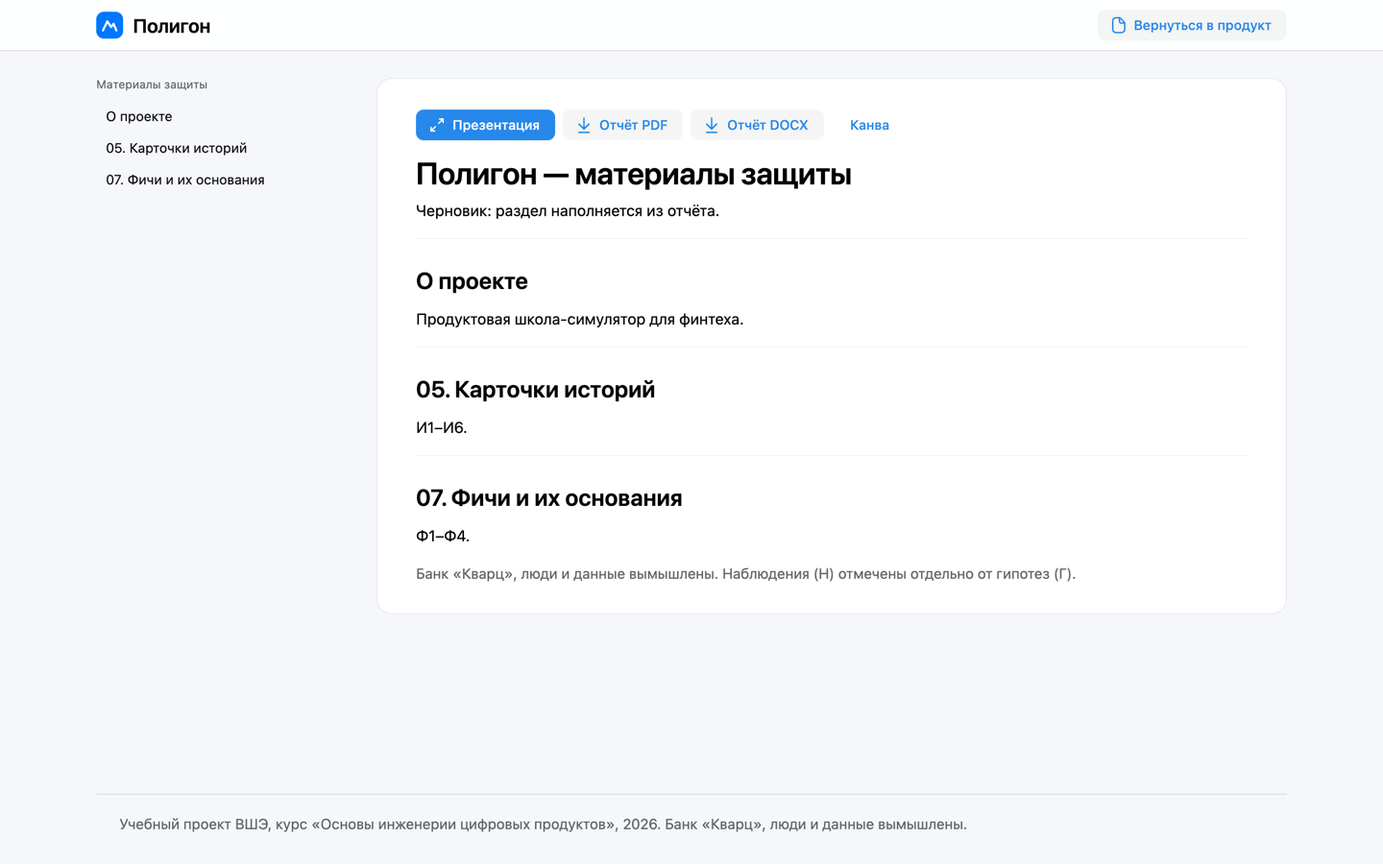
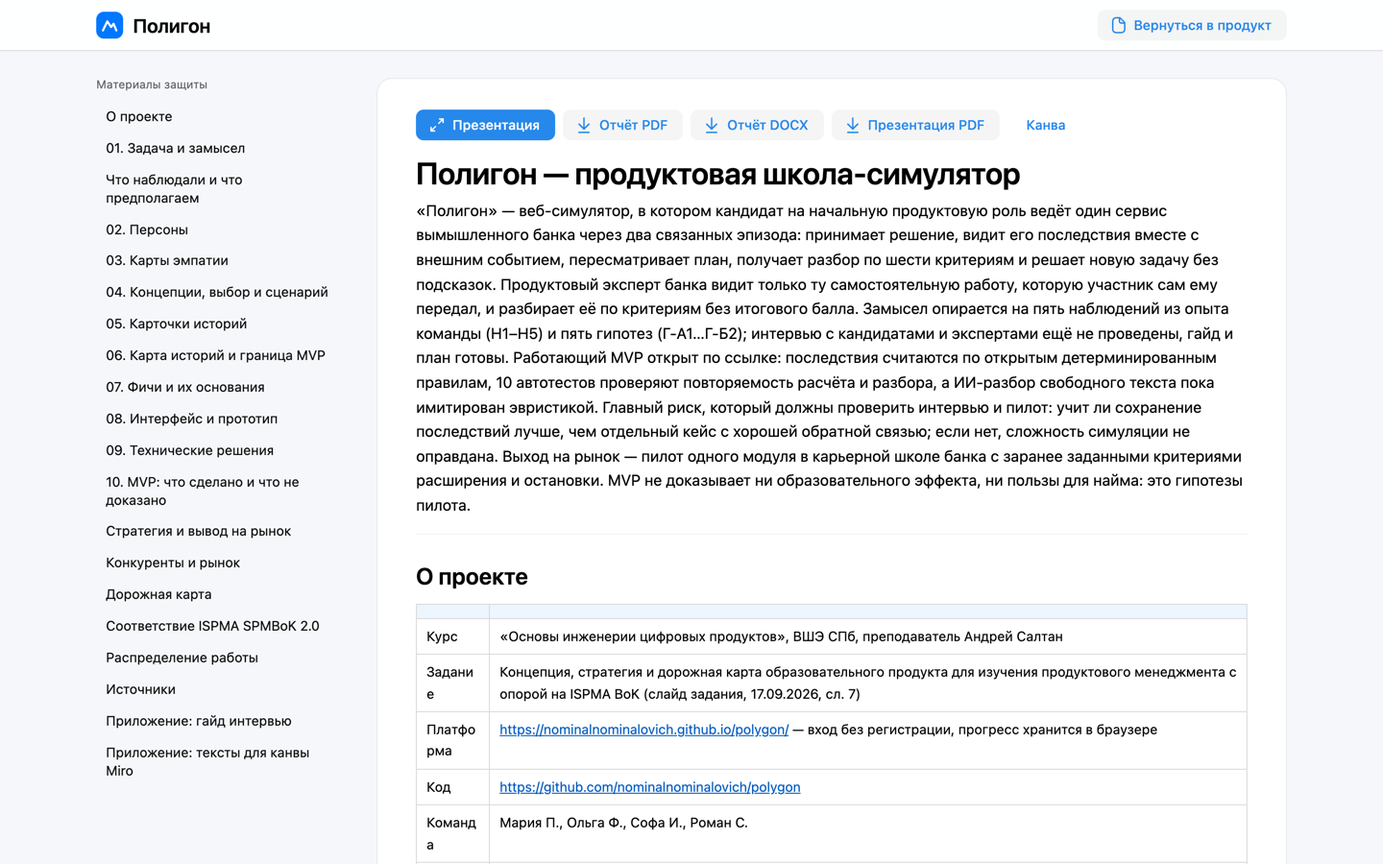
Самостоятельная задача v2: «месяц спустя» с внешним событием и разбивкой по причинам — карточка эксперта теперь несёт К4 и К5; сводка по потоку в кабинете эксперта; 15 тестов

diff --git a/src/screens/steps/Transfer.tsx b/src/screens/steps/Transfer.tsx
@@ -1,13 +1,16 @@
 import { Button, Caption, FormItem, Input, Text, Textarea, Title } from '@vkontakte/vkui';
+import { Icon20NewsfeedOutline, Icon20StatisticsOutline } from '@vkontakte/icons';
 import { Icon20ChevronRight } from '@vkontakte/icons';
-import { E4, E4_CAPACITY, type E4Id } from '../../sim/scenario';
+import { E4, E4_BASE, E4_CAPACITY, E4_EVENT, E4_EXPLANATIONS, type E4Id } from '../../sim/scenario';
+import { simulateE4 } from '../../sim/engine';
 import { CRITERIA } from '../../sim/debrief';
 import { goStep, setState, useStore, type Transfer as T } from '../../store';
 import { Trace } from '../../components/Trace';
-import { Bars, Capacity, Panel, Pill } from '../../components/ui';
+import { Bars, Capacity, Delta, Msg, Panel, Pill, fmt } from '../../components/ui';
+import { Radio } from './Decision2';
 import { Choice } from '../../components/fields';
 
-export const E4_CRITERIA = CRITERIA.filter((c) => ['K1', 'K2', 'K3', 'K6'].includes(c.id));
+export const E4_CRITERIA = CRITERIA;
 
 export function Transfer() {
   const s = useStore();
@@ -17,13 +20,14 @@ export function Transfer() {
   const toggle = (id: E4Id) => set({ initiatives: t.initiatives.includes(id) ? t.initiatives.filter((x) => x !== id) : [...t.initiatives, id] });
   const valid = t.problem.trim() && t.segment.trim() && t.initiatives.length > 0 && t.expectation.trim() && t.rationale.trim() && used <= E4_CAPACITY;
 
-  if (s.transferDone)
+  if (s.transferDone && s.transfer2Done)
     return (
       <div className="pg-stack pg-narrow">
         <Panel tone="tint" title="Самостоятельная работа отправлена"><Text>Изменить её уже нельзя — так работа остаётся сопоставимой.</Text></Panel>
         <Button size="l" after={<Icon20ChevronRight />} onClick={() => goStep('card')}>К карточке результата</Button>
       </div>
     );
+  if (s.transferDone) return <TransferMonth />;
 
   return (
     <div className="pg-grid pg-grid--side">
@@ -59,15 +63,68 @@ export function Transfer() {
       </div>
       <aside className="pg-stack pg-sticky">
         <Panel title="Критерии — видны до начала" tone="pale">
+          <Caption level="1" className="pg-muted">К4 и К5 оцениваются по шагу «месяц спустя».</Caption>
           <ul className="pg-list">{E4_CRITERIA.map((c) => <li key={c.id}><Text weight="2">{c.id.replace('K', 'К')} · {c.title}</Text><Caption level="1" className="pg-muted">{c.what}</Caption></li>)}</ul>
         </Panel>
         <Trace ids={['И5']} note="Критерий 2: работа отделена от тренировки; передача эксперту — отдельное действие на следующем шаге.">
           <Panel tone={valid ? 'tint' : 'pale'}>
-            <Text className="pg-muted">Тренировочный маршрут эксперт не увидит. Эту работу — только если вы её передадите.</Text>
-            <Button size="l" stretched disabled={!valid} after={<Icon20ChevronRight />} onClick={() => { setState({ transferDone: true }); goStep('card'); }}>Отправить работу</Button>
+            <Text className="pg-muted">Дальше — «месяц спустя»: увидите результат и коротко пересмотрите решение. Тренировочный маршрут эксперт не увидит, эту работу — только если вы её передадите.</Text>
+            <Button size="l" stretched disabled={!valid} after={<Icon20ChevronRight />} onClick={() => { setState({ transferDone: true }); window.scrollTo({ top: 0 }); }}>Зафиксировать решение</Button>
           </Panel>
         </Trace>
       </aside>
+    </div>
+  );
+}
+
+function TransferMonth() {
+  const s = useStore();
+  const t = s.transfer;
+  const set = (p: Partial<T>) => setState((st) => ({ transfer: { ...st.transfer, ...p } }));
+  const r = simulateE4(t.initiatives);
+  const valid = !!t.explanation && (t.changeText ?? '').trim().length > 0;
+  return (
+    <div className="pg-stack">
+      <Trace ids={['И5', 'Ф4', 'Э4']} note="Задача на перенос проверяет и ключевой навык модуля: отделить эффект своего решения от внешнего события (К4) и пересмотреть решение (К5).">
+        <Panel tone="risk">
+          <div className="pg-row"><Pill tone="solid">Самостоятельная работа · месяц спустя</Pill><Caption level="1">без подсказок</Caption></div>
+          <Title level="2">Ваше решение вышло. Посмотрите, что случилось</Title>
+        </Panel>
+      </Trace>
+      <div className="pg-grid pg-grid--2">
+        <Panel title="Новость" icon={<Icon20NewsfeedOutline />} tone="risk">
+          <Text weight="2">{E4_EVENT.title}</Text>
+          <Text>{E4_EVENT.text}</Text>
+        </Panel>
+        <Panel title="Дашборд" icon={<Icon20StatisticsOutline />}>
+          <div className="pg-tile">
+            <Caption level="1" className="pg-muted">Доля отключений в первый месяц</Caption>
+            <div className="pg-tile__value">{fmt(r.total)}<span className="pg-tile__unit">%</span></div>
+            <Delta value={r.total - E4_BASE} invert />
+            <Caption level="2" className="pg-muted">было {E4_BASE}%</Caption>
+          </div>
+          <Msg name="Ирина" role="Руководитель направления" tone={r.total >= E4_BASE ? 'warn' : undefined} text={r.total >= E4_BASE ? 'Отключений не меньше, чем было. Ваше решение не сработало?' : 'Снизилось, но меньше, чем ждали. Почему?'} />
+        </Panel>
+      </div>
+      <Panel title="Разбивка по причинам отключения" aside={!t.split && <Button mode="secondary" size="m" onClick={() => set({ split: true })}>Запросить разбивку</Button>}>
+        {t.split ? (
+          <div className="pg-table-wrap"><table className="pg-table">
+            <thead><tr><th>Причина</th><th>До, п.п.</th><th>После, п.п.</th></tr></thead>
+            <tbody>
+              {r.rows.map((x) => <tr key={x.id}><td>{x.label}</td><td>{fmt(x.base)}</td><td><b>{fmt(x.after)}</b> <Delta value={x.after - x.base} invert /></td></tr>)}
+              <tr className="is-total"><td>Всего</td><td>{E4_BASE}</td><td><b>{fmt(r.total)}</b></td></tr>
+            </tbody>
+          </table></div>
+        ) : <Text className="pg-muted">Общий показатель складывает разные причины. Разбивка открывается одним действием.</Text>}
+      </Panel>
+      <Panel title="Как вы объясняете результат?">
+        <Radio options={E4_EXPLANATIONS} value={t.explanation ?? ''} onChange={(id) => set({ explanation: id })} />
+        {t.explanation === 'own' && <Textarea value={t.explanationText ?? ''} onChange={(e) => set({ explanationText: e.target.value })} rows={2} />}
+        <FormItem top="Что меняете в решении и почему (2–3 предложения)" noPadding>
+          <Textarea value={t.changeText ?? ''} onChange={(e) => set({ changeText: e.target.value })} rows={3} />
+        </FormItem>
+        <Button size="l" disabled={!valid} after={<Icon20ChevronRight />} onClick={() => { setState({ transfer2Done: true }); goStep('card'); }}>Отправить работу</Button>
+      </Panel>
     </div>
   );
 }

diff --git a/src/screens/Expert.tsx b/src/screens/Expert.tsx
@@ -21,6 +21,9 @@ const DEMO: { id: string; name: string; t: Transfer }[] = [
       expectation: 'Доля отключений в первый месяц: 38% → 25% за 2 месяца',
       rationale: '61% отключений — в два дня после списания; 61% ответов опроса — про сумму или момент списания. Опрос показывается в момент отключения, отклик 55% — ему можно доверять больше, чем обычному. Кешбэк не решает проблему неожиданной суммы.',
       check: 'Доля отключений в первые два дня; обращения «почему списали столько».',
+      explanation: 'external',
+      split: true,
+      changeText: 'Разбивка показала: отключений из-за неожиданной суммы стало почти впятеро меньше (12,9 → 2,7 п.п.), а рост дала смена оператора (+9 п.п.). Решение оставляю и добавляю подсказку перенести автоплатёж при смене номера.',
     },
   },
   {
@@ -33,6 +36,9 @@ const DEMO: { id: string; name: string; t: Transfer }[] = [
       expectation: 'Больше подключений автоплатежа',
       rationale: 'Руководитель предлагает кешбэк, клиенты любят кешбэк. Напоминание увеличит подключения.',
       check: '',
+      explanation: 'failed',
+      split: false,
+      changeText: 'Отключений стало больше, кешбэк не сработал — увеличим кешбэк до 5%.',
     },
   },
 ];
@@ -41,7 +47,7 @@ const FRAGMENTS = ['Проблема', 'Сегмент', 'Инициативы',
 
 export function Expert({ workId }: { workId?: string }) {
   const s = useStore();
-  const works = [...(s.shared && s.transferDone ? [{ id: OWN_WORK_ID, name: 'Ваша работа (демо-прохождение)', t: s.transfer }] : []), ...DEMO];
+  const works = [...(s.shared && s.transfer2Done ? [{ id: OWN_WORK_ID, name: 'Ваша работа (демо-прохождение)', t: s.transfer }] : []), ...DEMO];
   const work = works.find((w) => w.id === workId);
 
   if (!work)
@@ -50,6 +56,24 @@ export function Expert({ workId }: { workId?: string }) {
         <Caption level="1" className="pg-muted">Продуктовый эксперт · банк «Кварц»</Caption>
         <Title level="1" className="pg-page__title">Переданные работы</Title>
         <Text className="pg-muted pg-page__lead">Только самостоятельные работы, которые участники сами передали. Тренировочные попытки сюда не попадают.</Text>
+        <Trace ids={['И6', 'Ф4']} status="mock" note="Сводка для руководителя школы: что показать после пилота. В MVP считается по разборам в этом браузере.">
+          <Panel title="Сводка по потоку" tone="pale">
+            {(() => {
+              const done = works.filter((w) => s.reviews[w.id]?.savedAt);
+              const mins = done.map((w) => s.reviews[w.id]!.minutes ?? 0).filter(Boolean).sort((a, b) => a - b);
+              const med = mins.length ? mins[Math.floor((mins.length - 1) / 2)] : null;
+              const q = done.filter((w) => s.reviews[w.id]!.question.trim()).length;
+              return (
+                <div className="pg-tiles">
+                  <div className="pg-tile"><Caption level="1" className="pg-muted">Передано работ</Caption><div className="pg-tile__value">{works.length}</div></div>
+                  <div className="pg-tile"><Caption level="1" className="pg-muted">Разобрано</Caption><div className="pg-tile__value">{done.length}</div></div>
+                  <div className="pg-tile"><Caption level="1" className="pg-muted">Минут на разбор, медиана</Caption><div className="pg-tile__value">{med ?? '—'}</div></div>
+                  <div className="pg-tile"><Caption level="1" className="pg-muted">С вопросом для интервью</Caption><div className="pg-tile__value">{q}</div></div>
+                </div>
+              );
+            })()}
+          </Panel>
+        </Trace>
         <Trace ids={['И6', 'Ф4', 'Э5']}>
           <Panel>
             {works.map((w) => (
@@ -57,7 +81,7 @@ export function Expert({ workId }: { workId?: string }) {
                 {w.name}
               </SimpleCell>
             ))}
-            {!(s.shared && s.transferDone) && <Caption level="1" className="pg-muted pg-pad">Пройдите модуль за кандидата и передайте работу — она появится в этом списке.</Caption>}
+            {!(s.shared && s.transfer2Done) && <Caption level="1" className="pg-muted pg-pad">Пройдите модуль за кандидата и передайте работу — она появится в этом списке.</Caption>}
           </Panel>
         </Trace>
       </div>
@@ -70,6 +94,7 @@ function ReviewForm({ id, name, t, initial }: { id: string; name: string; t: Tra
   const [review, setReview] = useState<Review>(initial ?? { criteria: {}, question: '' });
   const [frag, setFrag] = useState<Record<string, string>>({});
   const [saved, setSaved] = useState(false);
+  const [openedAt] = useState(() => Date.now());
   const setC = (c: CriterionId, p: Partial<{ status: Status; comment: string }>) =>
     setReview((r) => ({ ...r, criteria: { ...r.criteria, [c]: { status: 'nodata', comment: '', ...r.criteria[c], ...p } } }));
 
@@ -117,7 +142,7 @@ function ReviewForm({ id, name, t, initial }: { id: string; name: string; t: Tra
               <Textarea rows={2} value={review.question} onChange={(e) => setReview((r) => ({ ...r, question: e.target.value }))} />
             </FormItem>
             <Text className="pg-muted">Итоговой оценки и решения о найме здесь нет: карточка — материал для разговора с кандидатом.</Text>
-            <Button size="l" after={<Icon20ChevronRight />} onClick={() => { setState((st) => ({ reviews: { ...st.reviews, [id]: { ...review, savedAt: new Date().toISOString() } } })); setSaved(true); }}>Сохранить разбор</Button>
+            <Button size="l" after={<Icon20ChevronRight />} onClick={() => { setState((st) => ({ reviews: { ...st.reviews, [id]: { ...review, savedAt: new Date().toISOString(), minutes: Math.max(1, Math.round((Date.now() - openedAt) / 60000)) } } })); setSaved(true); }}>Сохранить разбор</Button>
             {saved && <Text className="pg-positive">Сохранено. {id === OWN_WORK_ID ? 'Кандидат увидит комментарий в своей карточке.' : ''}</Text>}
           </Panel>
         </Trace>

diff --git a/src/sim/scenario.ts b/src/sim/scenario.ts
@@ -219,5 +219,36 @@ export const E4 = {
     'Действия — Н+М, Н+О или М+О; К и Л бьют мимо причины.',
     'Ожидание — доля отключений в первый месяц с 38% до ~25% за 1–2 месяца.',
     'Перенос: здесь опрос надёжен (в моменте, отклик 55%) — навык в оценке источника, а не в недоверии к опросам.',
+    'Месяц спустя: рост общего показателя дала смена оператора (+9 п.п.). Сильный ответ запрашивает разбивку, не отказывается от работающего решения и добавляет перенос автоплатежа при смене номера.',
   ],
 };
+
+// «Месяц спустя» в самостоятельной задаче: эффект решения смешивается с внешним событием.
+export type E4Reason = 'amount' | 'lowbal' | 'manual' | 'number' | 'other';
+export const E4_BASE = 38;
+export const E4_REASONS: { id: E4Reason; label: string; base: number }[] = [
+  { id: 'amount', label: 'Списали больше, чем ожидал', base: 12.9 },
+  { id: 'lowbal', label: 'Списали, когда на карте было мало', base: 10.3 },
+  { id: 'manual', label: 'Хочу платить сам', base: 6.8 },
+  { id: 'number', label: 'Сменил номер или оператора', base: 4.6 },
+  { id: 'other', label: 'Другое', base: 3.4 },
+];
+/** Доля отключений по причине, которую снимает инициатива */
+export const E4_EFFECTS: Record<E4Id, Partial<Record<E4Reason, number>>> = {
+  K: { manual: 0.3 },
+  L: {},
+  M: { amount: 0.3, lowbal: 0.6 },
+  N: { amount: 0.7 },
+  O: {},
+};
+export const E4_EVENT = {
+  title: 'Оператор «Север» поднял тарифы на 30%',
+  text: 'С 1-го числа клиенты массово переносят номера к другим операторам. При переносе номера автоплатёж отключается.',
+  extra: 9,
+};
+export const E4_EXPLANATIONS = [
+  { id: 'failed', label: 'Решение не сработало' },
+  { id: 'external', label: 'Эффект решения перекрыт внешним событием' },
+  { id: 'insufficient', label: 'Недостаточно данных: нужна разбивка по причинам' },
+  { id: 'own', label: 'Своё объяснение' },
+] as const;

diff --git a/src/screens/steps/Card.tsx b/src/screens/steps/Card.tsx
@@ -1,6 +1,7 @@
 import { Button, Caption, Text, Title } from '@vkontakte/vkui';
 import { Icon20UserStarOutline } from '@vkontakte/icons';
-import { E4 } from '../../sim/scenario';
+import { E4, E4_BASE, E4_EXPLANATIONS } from '../../sim/scenario';
+import { simulateE4 } from '../../sim/engine';
 import { STATUS_LABEL } from '../../sim/debrief';
 import { setState, useStore } from '../../store';
 import { navigate } from '../../router';
@@ -19,6 +20,13 @@ export function WorkFields({ t }: { t: import('../../store').Transfer }) {
       <div><dt>Ожидание</dt><dd>{t.expectation}</dd></div>
       <div><dt>Обоснование</dt><dd className="pg-prewrap">{t.rationale}</dd></div>
       {t.check && <div><dt>Проверить после запуска</dt><dd>{t.check}</dd></div>}
+      {t.explanation && (
+        <>
+          <div><dt>Месяц спустя: результат</dt><dd>Доля отключений {E4_BASE}% → {simulateE4(t.initiatives).total.toLocaleString('ru-RU')}% · разбивка по причинам: {t.split ? 'запрошена' : 'не запрошена'}</dd></div>
+          <div><dt>Объяснение</dt><dd>{t.explanation === 'own' ? t.explanationText : E4_EXPLANATIONS.find((x) => x.id === t.explanation)?.label}</dd></div>
+          <div><dt>Что меняет и почему</dt><dd className="pg-prewrap">{t.changeText}</dd></div>
+        </>
+      )}
     </dl>
   );
 }

diff --git a/src/sim/engine.ts b/src/sim/engine.ts
@@ -1,7 +1,7 @@
 import {
-  BASE_ACTIVE, BASE_AUTO, BASE_SIDE, CAPACITY, E1_INITIATIVES, E2_INITIATIVES, EFFECTS,
+  BASE_ACTIVE, BASE_AUTO, BASE_SIDE, CAPACITY, E1_INITIATIVES, E2_INITIATIVES, E4_EFFECTS, E4_EVENT, E4_REASONS, EFFECTS,
   MIX_OLD, MIX_PARTNER, OLD_N, PARTNER_N, SEGMENTS,
-  type Delta, type E1Id, type E2Id, type Seg,
+  type Delta, type E1Id, type E2Id, type E4Id, type E4Reason, type Seg,
 } from './scenario';
 
 export type Rates = { active: Record<Seg, number>; auto: Record<Seg, number> };
@@ -158,4 +158,16 @@ export function simulate2(e1: E1Id[], e2: E2Id[], push: PushChoice | null): { m:
     side.support -= 70;
   }
   return { m: month(rates, side, true), trace };
+}
+
+/** Самостоятельная задача: доля отключений по причинам до и после, с внешним событием. */
+export function simulateE4(ids: E4Id[]) {
+  const rows = E4_REASONS.map((r) => {
+    let after = r.base;
+    for (const id of ids) after *= 1 - (E4_EFFECTS[id][r.id as E4Reason] ?? 0);
+    if (r.id === 'number') after += E4_EVENT.extra;
+    return { ...r, after: r1(after) };
+  });
+  const total = r1(rows.reduce((a, r) => a + r.after, 0));
+  return { rows, total };
 }

diff --git a/src/store.ts b/src/store.ts
@@ -31,9 +31,13 @@ export type Transfer = {
   expectation: string;
   rationale: string;
   check: string;
+  explanation?: string;
+  explanationText?: string;
+  split?: boolean;
+  changeText?: string;
 };
 
-export type Review = { criteria: Partial<Record<CriterionId, { status: Status; comment: string }>>; question: string; savedAt?: string };
+export type Review = { criteria: Partial<Record<CriterionId, { status: Status; comment: string }>>; question: string; savedAt?: string; minutes?: number };
 
 export type Step = 'dossier' | 'decision1' | 'outcome1' | 'decision2' | 'debrief' | 'transfer' | 'card';
 export const STEPS: { id: Step; label: string; screen: string }[] = [
@@ -58,6 +62,7 @@ export type State = {
   d2Done: boolean;
   transfer: Transfer;
   transferDone: boolean;
+  transfer2Done: boolean;
   shared: boolean;
   reviews: Record<string, Review>;
   trace: boolean;
@@ -77,6 +82,7 @@ export const initial: State = {
   d2Done: false,
   transfer: { problem: '', segment: '', initiatives: [], expectation: '', rationale: '', check: '' },
   transferDone: false,
+  transfer2Done: false,
   shared: false,
   reviews: {},
   trace: false,

diff --git a/src/sim/engine.test.ts b/src/sim/engine.test.ts
@@ -1,5 +1,5 @@
 import { describe, expect, it } from 'vitest';
-import { baseline, simulate1, simulate2 } from './engine';
+import { baseline, simulate1, simulate2, simulateE4 } from './engine';
 
 // Контрольные прохождения из сценария (раздел 8): одинаковые выборы дают одинаковый результат.
 describe('контрольные прохождения', () => {
@@ -57,5 +57,12 @@ describe('контрольные прохождения', () => {
 
   it('повторное прохождение даёт тот же результат', () => {
     expect(simulate2(['B', 'V'], ['EB', 'D'], null)).toEqual(simulate2(['B', 'V'], ['EB', 'D'], null));
+  });
+
+  it('самостоятельная задача: событие перекрывает эффект решения', () => {
+    expect(simulateE4(['N', 'M']).total).toBe(30.6);
+    expect(simulateE4(['N']).total).toBe(38);
+    expect(simulateE4(['K', 'L']).total).toBe(45);
+    expect(simulateE4(['N']).rows.find((r) => r.id === 'number')!.after).toBe(13.6);
   });
 });
